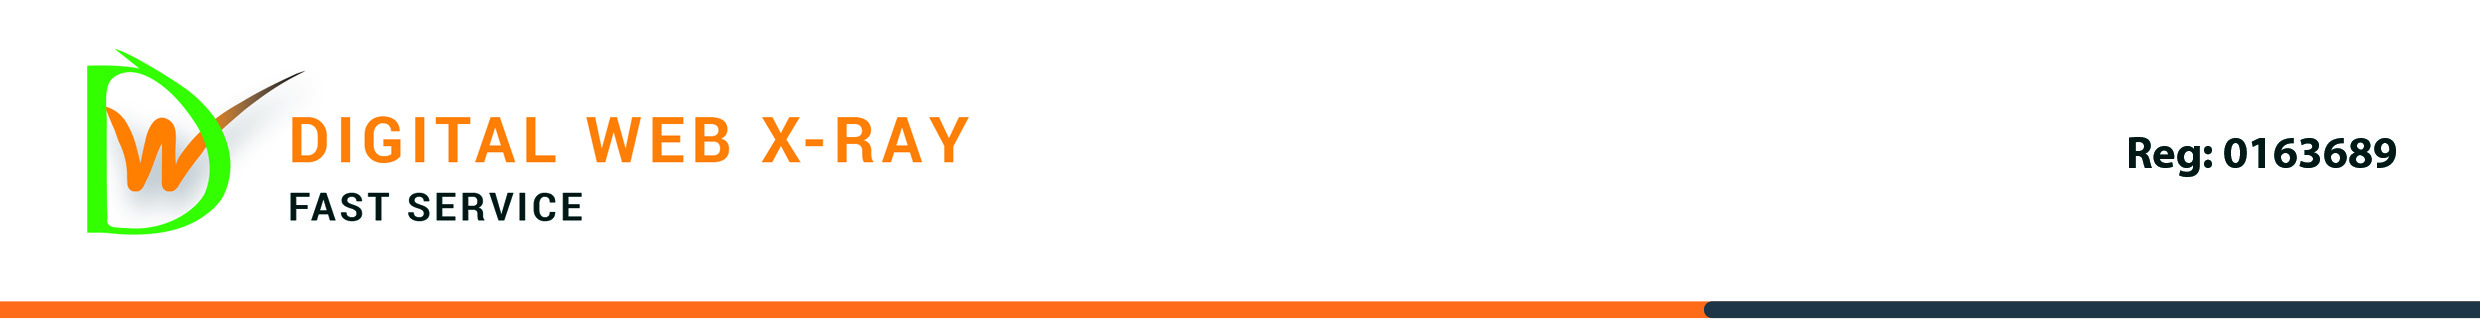
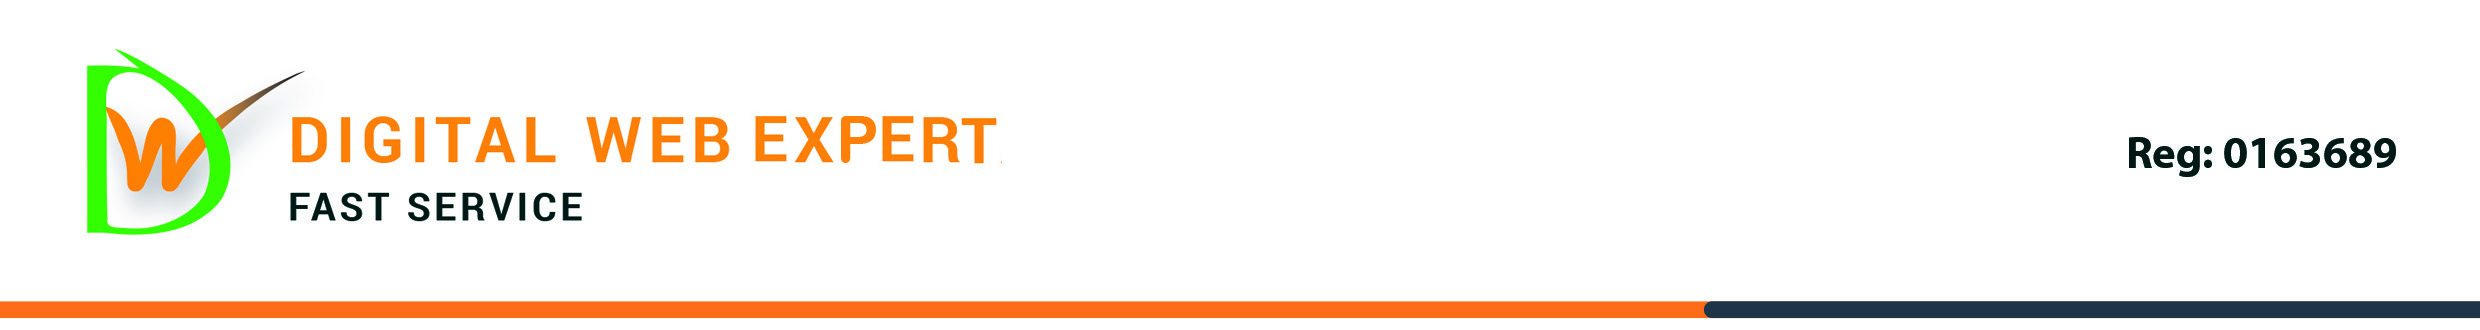
table list update

Changed region(s): [[0.2794, 0.3333, 0.4036, 0.5152]]

diff --git a/src/pages/admin/customer-print-bill/ui/billing-pad-header/BillingPadHeader.tsx b/src/pages/admin/customer-print-bill/ui/billing-pad-header/BillingPadHeader.tsx
@@ -1,15 +1,27 @@
 import HEADERPAD from "@/assets/images/header.jpg";
 import { Text } from "@/shared/ui";
+import DOMPurify from "dompurify";
+import parse from "html-react-parser";
 type BillingType = {
   month?: string;
   printDate?: string;
   to?: string;
   status?: string;
+  address?: string;
 };
 interface IProps {
   billingHeader?: BillingType;
 }
 const BillingPadHeader = ({ billingHeader }: IProps) => {
+
+    const formatMonthYear = (value?: string) => {
+  if (!value) return "";
+  return new Date(`${value}-01`).toLocaleString("en-US", {
+    month: "long",
+    year: "numeric",
+  });
+};
+
   return (
     <div className="overflow-x-auto">
       <img src={HEADERPAD} alt="Header" className="w-full mb-4" />
@@ -17,14 +29,28 @@ const BillingPadHeader = ({ billingHeader }: IProps) => {
       <div className="flex flex-wrap justify-between items-start mb-4  p-2">
         <div>
           <Text element="p">
-            <strong>Bill Month:</strong> {billingHeader?.month}
-          </Text>
-          <Text element="p">
-            <strong>Print Date:</strong> {billingHeader?.printDate}
-          </Text>
-          <Text element="p" size="md">
-            <strong>To:</strong> {billingHeader?.to}
-          </Text>
+                      <strong>Bill Month:</strong> {formatMonthYear(billingHeader?.month)}
+                    </Text>
+                    <Text element="p">
+                      <strong>Print Date:</strong> {billingHeader?.printDate}
+                    </Text>
+                    <Text element="p">
+                      <strong>To:</strong> {billingHeader?.to}
+                    </Text>
+                    <Text element="p">
+                      {parse(DOMPurify.sanitize(String(billingHeader?.address) || ""))} 
+                    </Text>
+                    <Text element="p" className="mt-2">
+                      <strong>Dear Customer</strong>,
+                    </Text>
+                  <Text element="p" className="text-2xl">
+                    Your {formatMonthYear(billingHeader?.month)}, X-Ray & ECG reporting bill is attached herewith for your kind review. <br/>
+                    Kindly check the details below and complete the payment within the due date.
+                  </Text>
+                  <Text element="p" className="mt-2">
+                   Thank you for choosing <strong>Digital Web Expert</strong>
+                  </Text>
+                  
         </div>
         <div className="text-right">
           <Text element="p">

diff --git a/src/pages/agent/bill-print/ui/billing-pad-header/BillingPadHeader.tsx b/src/pages/agent/bill-print/ui/billing-pad-header/BillingPadHeader.tsx
@@ -1,16 +1,27 @@
 import HEADERPAD from "@/assets/images/header.jpg";
 import { Text } from "@/shared/ui";
+import DOMPurify from "dompurify";
+import parse from "html-react-parser";
 type BillingType = {
   month?: string;
   printDate?: string;
   to?: string;
   status?: string;
+  address?: string;
 };
 interface IProps {
   billingHeader?: BillingType;
 }
 const BillingPadHeader = ({ billingHeader }: IProps) => {
 
+
+  const formatMonthYear = (value?: string) => {
+  if (!value) return "";
+  return new Date(`${value}-01`).toLocaleString("en-US", {
+    month: "long",
+    year: "numeric",
+  });
+};
 
   return (
     <div className="overflow-x-auto">
@@ -19,7 +30,7 @@ const BillingPadHeader = ({ billingHeader }: IProps) => {
       <div className="flex flex-wrap justify-between items-start mb-4  p-2">
         <div>
           <Text element="p">
-            <strong>Bill Month:</strong> {billingHeader?.month}
+            <strong>Bill Month:</strong> {formatMonthYear(billingHeader?.month)}
           </Text>
           <Text element="p">
             <strong>Print Date:</strong> {billingHeader?.printDate}
@@ -27,6 +38,20 @@ const BillingPadHeader = ({ billingHeader }: IProps) => {
           <Text element="p">
             <strong>To:</strong> {billingHeader?.to}
           </Text>
+          <Text element="p">
+            {parse(DOMPurify.sanitize(String(billingHeader?.address) || ""))} 
+          </Text>
+          <Text element="p" className="mt-2">
+            <strong>Dear Customer</strong>,
+          </Text>
+        <Text element="p" className="text-2xl">
+          Your {formatMonthYear(billingHeader?.month)}, X-Ray & ECG reporting bill is attached herewith for your kind review. <br/>
+          Kindly check the details below and complete the payment within the due date.
+        </Text>
+        <Text element="p" className="mt-2">
+         Thank you for choosing <strong>Digital Web Expert</strong>
+        </Text>
+        
         
         </div>
         <div className="text-right">

diff --git a/src/pages/agent/bill-print/ui/BillPrint.tsx b/src/pages/agent/bill-print/ui/BillPrint.tsx
@@ -26,7 +26,8 @@ const BillPrint = () => {
     month: transformBill?.month || "N/A",
     printDate: new Date().toLocaleDateString("en-GB") || "N/A",
     to: transformBill?.user_id?.name || "N/A",
-    status: transformBill?.status,
+    address: transformBill?.user_id?.address || "N/A",
+    status: transformBill?.status || "N/A",
   };
 
   const getSafeNumber = (obj: unknown, key: string): number => {
@@ -63,7 +64,8 @@ const BillPrint = () => {
   const paymnetMethod = useMemo(() => {
     return (
       paymentGetway?.data?.map((method) => ({
-        name: `${method.details} (${method.name})`,
+        //name: `${method.details} (${method.name})`,
+        name: `(${method.name})`,
         value: method.details,
       })) ?? []
     );
@@ -123,10 +125,13 @@ const BillPrint = () => {
         </BillingInformation>
 
         <div
-          className="absolute inset-0 flex items-center justify-center pointer-events-none print:opacity-100 opacity-20 text-6xl font-bold  text-green-300"
+          className="absolute inset-0 flex items-center justify-center
+                    -translate-y-4 pointer-events-none
+                    print:opacity-100 opacity-20
+                    text-6xl font-bold text-green-300"
           style={{ zIndex: 0 }}
         >
-          {transformBill?.status == "Paid" ? "Paid" : "Un-paid"}
+          {transformBill?.status === "Paid" ? "Paid" : "Un-paid"}
         </div>
 
         <div className="after:content-[''] after:table after:clear-both"></div>

diff --git a/src/entities/payment-method/PaymentMethod.tsx b/src/entities/payment-method/PaymentMethod.tsx
@@ -1,22 +1,46 @@
 import { Text } from "@/shared/ui";
 import DOMPurify from "dompurify";
 import parse from "html-react-parser";
+
 type PaymentMethodType = {
   name: string;
   value: string;
 };
+
 interface IProps {
   methods?: PaymentMethodType[];
 }
-const PaymentMethod = ({ methods }: IProps) => {
+
+
+const PaymentMethod = ({ methods = [] }: IProps) => {
+  const leftBox = methods.slice(0, 6);
+  const rightBox = methods.slice(6);
+
   return (
-    <div className="space-y-1 mt-3">
-      {methods?.map((method) => (
-          
-        <Text key={method.value} element="p"> 
-          {parse(DOMPurify.sanitize(String(method?.name) || ""))}
+    <div className="grid grid-cols-2 gap-6 mt-3">
+      {/* Left Box */}
+      <div className="space-y-1 text-2xl">
+        {leftBox.map((method, index) => (
+        <Text
+          key={`${method.name}-${index}`}
+          element="div"
+          className="text-2xl"
+        >
+          <strong>{method.name}</strong>:{" "}
+          {parse(DOMPurify.sanitize(String(method.value) || ""))}
         </Text>
       ))}
+      </div>
+
+      {/* Right Box */}
+      <div className="space-y-1 text-2xl">
+        {rightBox.map((method) => (
+          <Text key={method.value} element="div" className="text-2xl">
+            <strong>{method.name}</strong>:{" "}
+            {parse(DOMPurify.sanitize(String(method.value) || ""))}
+          </Text>
+        ))}
+      </div>
     </div>
   );
 };

diff --git a/src/pages/admin/customer-print-bill/ui/CustomerBillPrint.tsx b/src/pages/admin/customer-print-bill/ui/CustomerBillPrint.tsx
@@ -23,8 +23,9 @@ const CustomerBillPrint = () => {
   const billingHeaderData = { 
     month: transformBill?.month || "N/A",
     printDate: new Date().toLocaleDateString("en-GB") || "N/A", 
-    to: transformBill?.user_id?.email || "N/A", 
+    to: transformBill?.user_id?.name || "N/A", 
     status: transformBill?.status,
+    address: transformBill?.user_id?.address || "N/A",
   };
 
   const getSafeNumber = (obj: unknown, key: string): number => {
@@ -61,7 +62,8 @@ const CustomerBillPrint = () => {
     const paymnetMethod = useMemo(() => {
       return (
         paymentGetway?.data?.map((method) => ({
-          name: `${method.details} (${method.name})`,
+         // name: `${method.details} (${method.name})`,
+          name: ` (${method.name})`,
           value: method.details,
         })) ?? []
       );

diff --git a/src/shared/ui/text/Text.tsx b/src/shared/ui/text/Text.tsx
@@ -13,6 +13,7 @@ interface TextProps {
     | "h6"
     | "p"
     | "span"
+    | "div"
     | "strong"
     | "label"
     | "del";
@@ -45,9 +46,9 @@ const Text = ({
 
   const sizeClasses = {
     sm: "text-[12px]",
-    md: "text-[12px] md:text-[14px]",
-    lg: "text-[14px] md:text-[16px]",
-    xl: "text-[16px] md:text-[20px]",
+    md: "text-[16px] md:text-[18px]",
+    lg: "text-[16px] md:text-[18px]",
+    xl: "text-[18px] md:text-[20px]",
     "2xl": "text-[20px] md:text-[28px]",
     "3xl": "text-[26px] lg:text-[36px]",
   }[size];

diff --git a/src/widgets/layout/header/Header.tsx b/src/widgets/layout/header/Header.tsx
@@ -24,7 +24,7 @@ const Header = () => {
 
   const headerClasses = `
   bg-green-500 text-white flex-col lg:flex-row lg:flex lg:flex-wrap lg:justify-center
-  fixed lg:relative w-[400px] lg:w-full h-full lg:h-auto top-0 z-40
+  fixed lg:relative w-[400px] lg:w-full h-full lg:h-auto top-0 z-40  
   transition-all duration-300 ease-in-out
   ${isToggle ? "left-0" : "-left-[100%]"}
   lg:left-0      /* Always visible on large screens */

diff --git a/src/widgets/layout/header/menu.tsx b/src/widgets/layout/header/menu.tsx
@@ -360,7 +360,7 @@ export const MENU_DATA: MenuType[] = [
     ],
   },
   {
-    id: "admin-6",
+    id: "admin-9",
     role: [RoleEnum.admin],
     title: "Software",
     icon: <IoIosSend />,

diff --git a/src/shared/redux/features/admin/manage-customer-bill/billList.types.ts b/src/shared/redux/features/admin/manage-customer-bill/billList.types.ts
@@ -5,6 +5,8 @@ export interface BILL_USER {
   multiple: number;
   ecg: number;
   email: string;
+  name: string;
+  address: string;
   id: string;
 }
 export interface BILL_MODEL {

diff --git a/src/shared/redux/features/agent/manage-bill/billList.types.ts b/src/shared/redux/features/agent/manage-bill/billList.types.ts
@@ -6,6 +6,7 @@ export interface BILL_USER {
   ecg: number;
   id: string;
   name: string; 
+  address: string; 
   
 }
 export interface BILL_MODEL {
